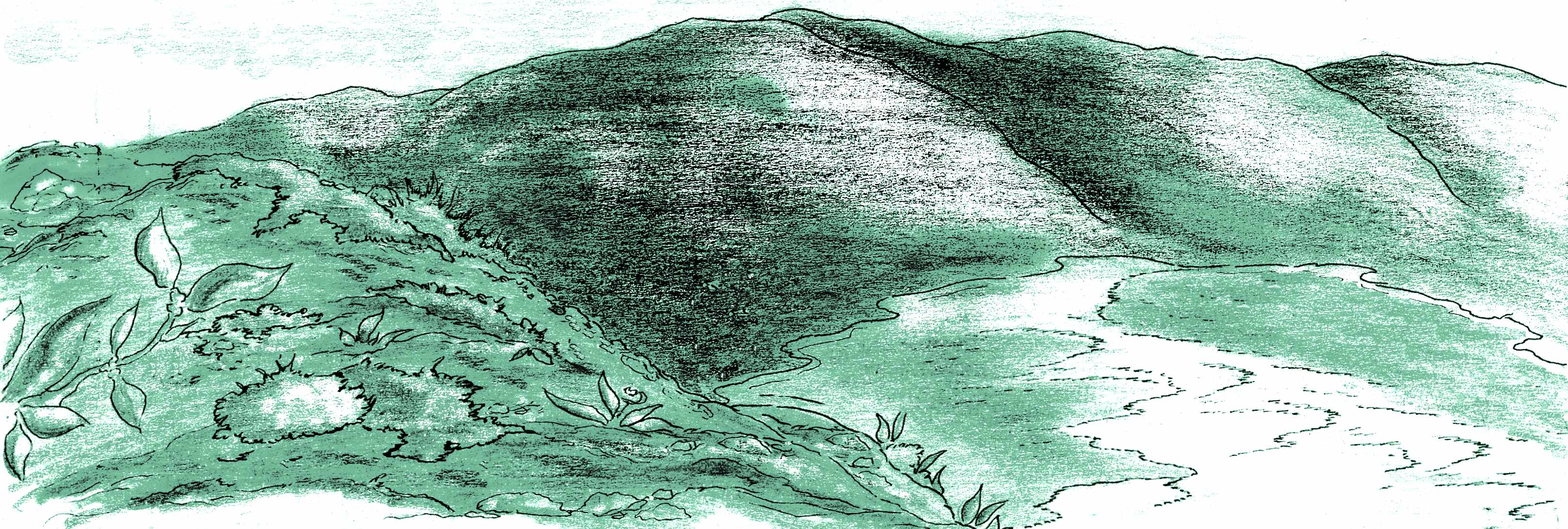
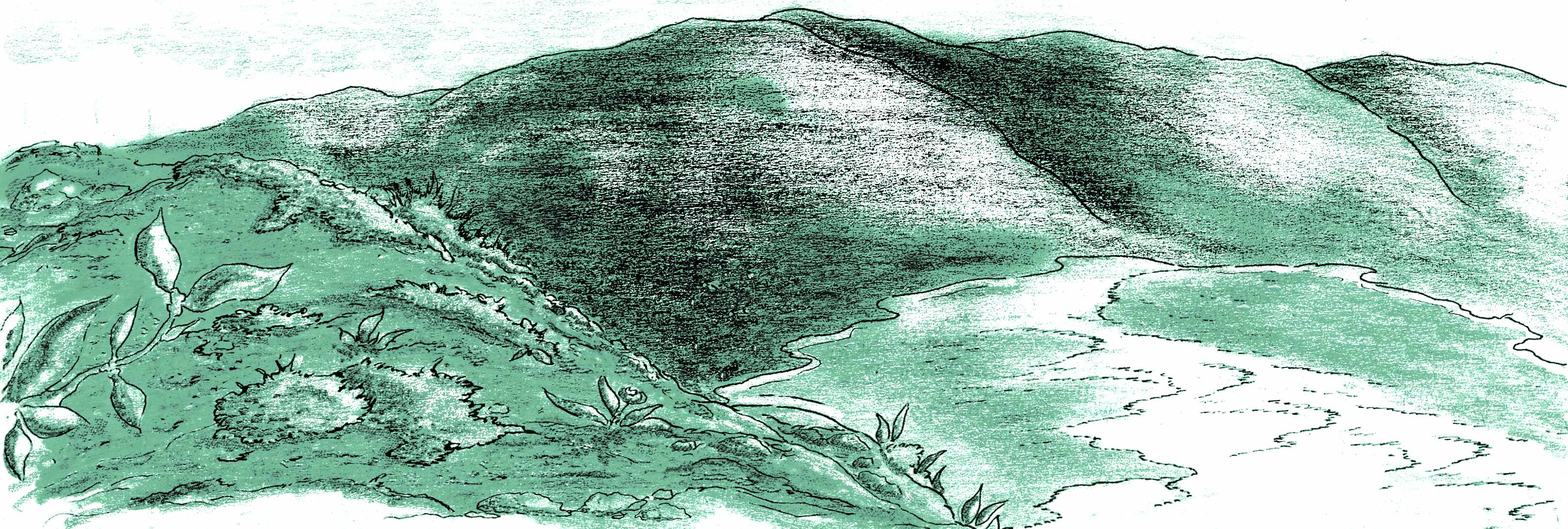
job title, some clunky media queries, image changes/touchups

diff --git a/css/styles.css b/css/styles.css
@@ -24,10 +24,24 @@ body {
     margin: 40px;
 }
 
+.logo { 
+    display: flex;
+    flex-direction: row;
+}
+
 /* Left side of navigation bar */
 .logo img {
     width: 80px;
     height:80px;
+}
+
+.job-title {
+    display: flex;
+    justify-content: flex-start;
+    align-items: center;
+    padding-left: 60px;
+    font-size: 1.5rem;
+    color: #005C73;
 }
 
 /* Right side of navigation bar */
@@ -81,6 +95,7 @@ section {
 
 .landscape-drawings-container {
     display: grid;
+    position: relative;
 }
 
 .landscape-drawings-container img {
@@ -152,20 +167,22 @@ section {
  * a sub-grid of four (4) in the left container, and an 'about-me' section on the right */
 
 .about-container {
-    display: flex;
+    display: grid;
+    flex-wrap: wrap;
     justify-content: center;
     align-items: center;
     font-family: 'Montserrat', sans-serif;
+    overflow: hidden;
 }
 
 .about-grid {
     display: grid;
     width: 100vw;
-    height: 600px;
+    max-height: 100%;
     grid-template-columns: 1fr 1fr;
     grid-template-rows: 1fr;
     gap: 20px;
-    padding: 20px;
+    padding: 1rem;
 }
 
 .portrait-sub-grid {
@@ -181,7 +198,7 @@ section {
     justify-content: center;
     align-items: center;
     background:rgba(50, 92, 109, 0.7);
-    width: 75%;
+    width: 65%;
 }
 
 .about-me {
@@ -190,7 +207,7 @@ section {
     justify-content: center;
     align-items: center;
     margin-right: 4rem;
-    font-size: 1.15rem;
+    font-size: 1.1rem;
     line-height: 1.8;
 }
 
@@ -200,6 +217,7 @@ section {
     display: flex;
     flex-direction: column;
     justify-content: center;
+    margin: 2rem;
 }
 
 .form-container form {

diff --git a/css/media-queries.css b/css/media-queries.css
@@ -1,0 +1,73 @@
+
+/* Small-ish screens (desktop/laptop) */
+@media screen and (min-width: 1024px) and (max-width:1280px) {
+
+    .about-me {
+        font-size: 1rem;
+    }
+
+    .portrait {
+        height: 90%;
+        width: 85%;
+    }
+}
+
+/* Much smaller screens (desktop/laptop) */
+@media screen and (min-width: 800px) and (max-width:1023px) {
+
+    .about-grid {
+        grid-template-columns: 1fr;
+        grid-template-rows: 1fr 1fr;
+    }
+
+    .about-me {
+        font-size: .8rem;
+        margin: 0px 30px 0px 30px;
+    }
+
+    .portrait-sub-grid {
+        padding-top: 40px;
+        padding-right: 50px;
+      
+    }
+
+    .portrait {
+        height: 80%;
+        width: 100%;
+    }
+}
+
+/* Tablets and other related devices */
+@media screen and (min-width: 400px) and (max-width:799px) {
+
+    .about-grid {
+        grid-template-columns: 1fr;
+        grid-template-rows: 1fr 1fr;
+    }
+
+    .about-me {
+        font-size: .8rem;
+        margin: 0px 30px 50px 30px;
+    }
+
+    .portrait-sub-grid {
+        grid-template-columns: 1fr;
+        grid-template-rows: 1fr 1fr 1fr 1fr;
+        padding-top: 40px;
+        padding-right: 50px;
+      
+    }
+
+    .portrait {
+        height: 80%;
+        width: 100%;
+    }
+}
+
+/* Large/small smartphones*/
+@media screen and (min-width: 0px) and (max-width:399px) {
+
+    .about-me {
+        font-size: .4em;
+    }
+}

diff --git a/index.php b/index.php
@@ -16,6 +16,7 @@
     <link href="https://fonts.googleapis.com/css2?family=Sen&display=swap" rel="stylesheet">
     <link href="https://fonts.googleapis.com/css2?family=Montserrat&display=swap" rel="stylesheet">
     <link rel="stylesheet" href="css/styles.css">
+    <link rel="stylesheet" href="css/media-queries.css">
     <title>Nicholas LaMothe - Portfolio Website</title>
 </head>
 <body>
@@ -25,7 +26,13 @@
                 <a href="index.php">
                     <img src="img/logo.png"alt="">
                 </a>
+
+                <div class="job-title">
+                    web development / ux
             </div>
+            </div>
+
+ 
 
             <div class="nav-list">
                 <ul>
@@ -36,11 +43,11 @@
             </div>
         </nav>
     </header>
-
+  
     <section>
         <div class="landscape-drawings-container">
-                <img class="bottom-drawing" src="img/landscape_outline_coloured.JPG" alt="">
-                <img class="top-drawing" src="img/landscape_outline.JPG" alt="">     
+            <img class="bottom-drawing" src="img/landscape_outline_coloured.JPG" alt="">
+            <img class="top-drawing" src="img/landscape_outline.JPG" alt="">   
         </div>
     </section>
 

diff --git a/about.php b/about.php
@@ -16,6 +16,7 @@
     <link href="https://fonts.googleapis.com/css2?family=Sen&display=swap" rel="stylesheet">
     <link href="https://fonts.googleapis.com/css2?family=Montserrat&display=swap" rel="stylesheet">
     <link rel="stylesheet" href="css/styles.css">
+    <link rel="stylesheet" href="css/media-queries.css">
 <title>Nicholas LaMothe - Portfolio Website</title>
 </head>
 <body>
@@ -25,6 +26,10 @@
                 <a href="index.php">
                     <img src="img/logo.png"alt="">
                 </a>
+
+                <div class="job-title">
+                    web development / ux
+                </div>
             </div>
 
             <div class="nav-list">
@@ -39,9 +44,8 @@
 
     <section>
         <div class="about-container">
-                       
             <div class="about-grid">
-                
+
                 <div class="portrait-sub-grid">
                     <div class="portrait">Portrait 1</div>
                     <div class="portrait">Portrait 2</div>
@@ -60,6 +64,7 @@
                         You can find my resume <a href="cv/Nicholas_LaMothe_CV.pdf">here</a>. 
                     </p>
                 </div>
+            </div>
         </div>
     </section>
 

diff --git a/contact.php b/contact.php
@@ -65,6 +65,7 @@
     <link href="https://fonts.googleapis.com/css2?family=Sen&display=swap" rel="stylesheet">
     <link href="https://fonts.googleapis.com/css2?family=Montserrat&display=swap" rel="stylesheet">
     <link rel="stylesheet" href="css/styles.css">
+    <link rel="stylesheet" href="css/media-queries.css">
     <title>Nicholas LaMothe - Portfolio Website</title>
 </head>
 <body>
@@ -74,6 +75,10 @@
                 <a href="index.php">
                     <img src="img/logo.png"alt="">
                 </a>
+
+                <div class="job-title">
+                    web development / ux
+                </div>
             </div>
 
             <div class="nav-list">

diff --git a/portfolio.php b/portfolio.php
@@ -16,6 +16,7 @@
     <link href="https://fonts.googleapis.com/css2?family=Sen&display=swap" rel="stylesheet">
     <link href="https://fonts.googleapis.com/css2?family=Montserrat&display=swap" rel="stylesheet">
     <link rel="stylesheet" href="css/styles.css">
+    <link rel="stylesheet" href="css/media-queries.css">
     <title>Nicholas LaMothe - Portfolio Website</title>
 </head>
 <body>
@@ -25,6 +26,10 @@
                 <a href="index.php">
                     <img src="img/logo.png"alt="">
                 </a>
+
+                <div class="job-title">
+                    web development / ux
+                </div>
             </div>
 
             <div class="nav-list">

diff --git a/README.md b/README.md
@@ -4,8 +4,9 @@ New design - personal portfolio website.
 
 TODO:
 
+- Perhaps completed *rebuild* the 'About' section
+- Create multiple self-portraits, insert them into the relevant sub-grid in 'About', and then use CSS animations to make them 'animated' on hover
 - Continue to refine the basic structure/styling of the grids and sections.
-- Create multiple self-portraits, insert them into the relevant sub-grid in 'About', and then use CSS animations to make them 'animated' on hover.
 - Polish the footer and try and resolve some difficulties in the interaction with the main section.
 - Write all of the media queries only once the structure of the main view has been completed finished.
 - Generally resolve any jankiness (refactor).
